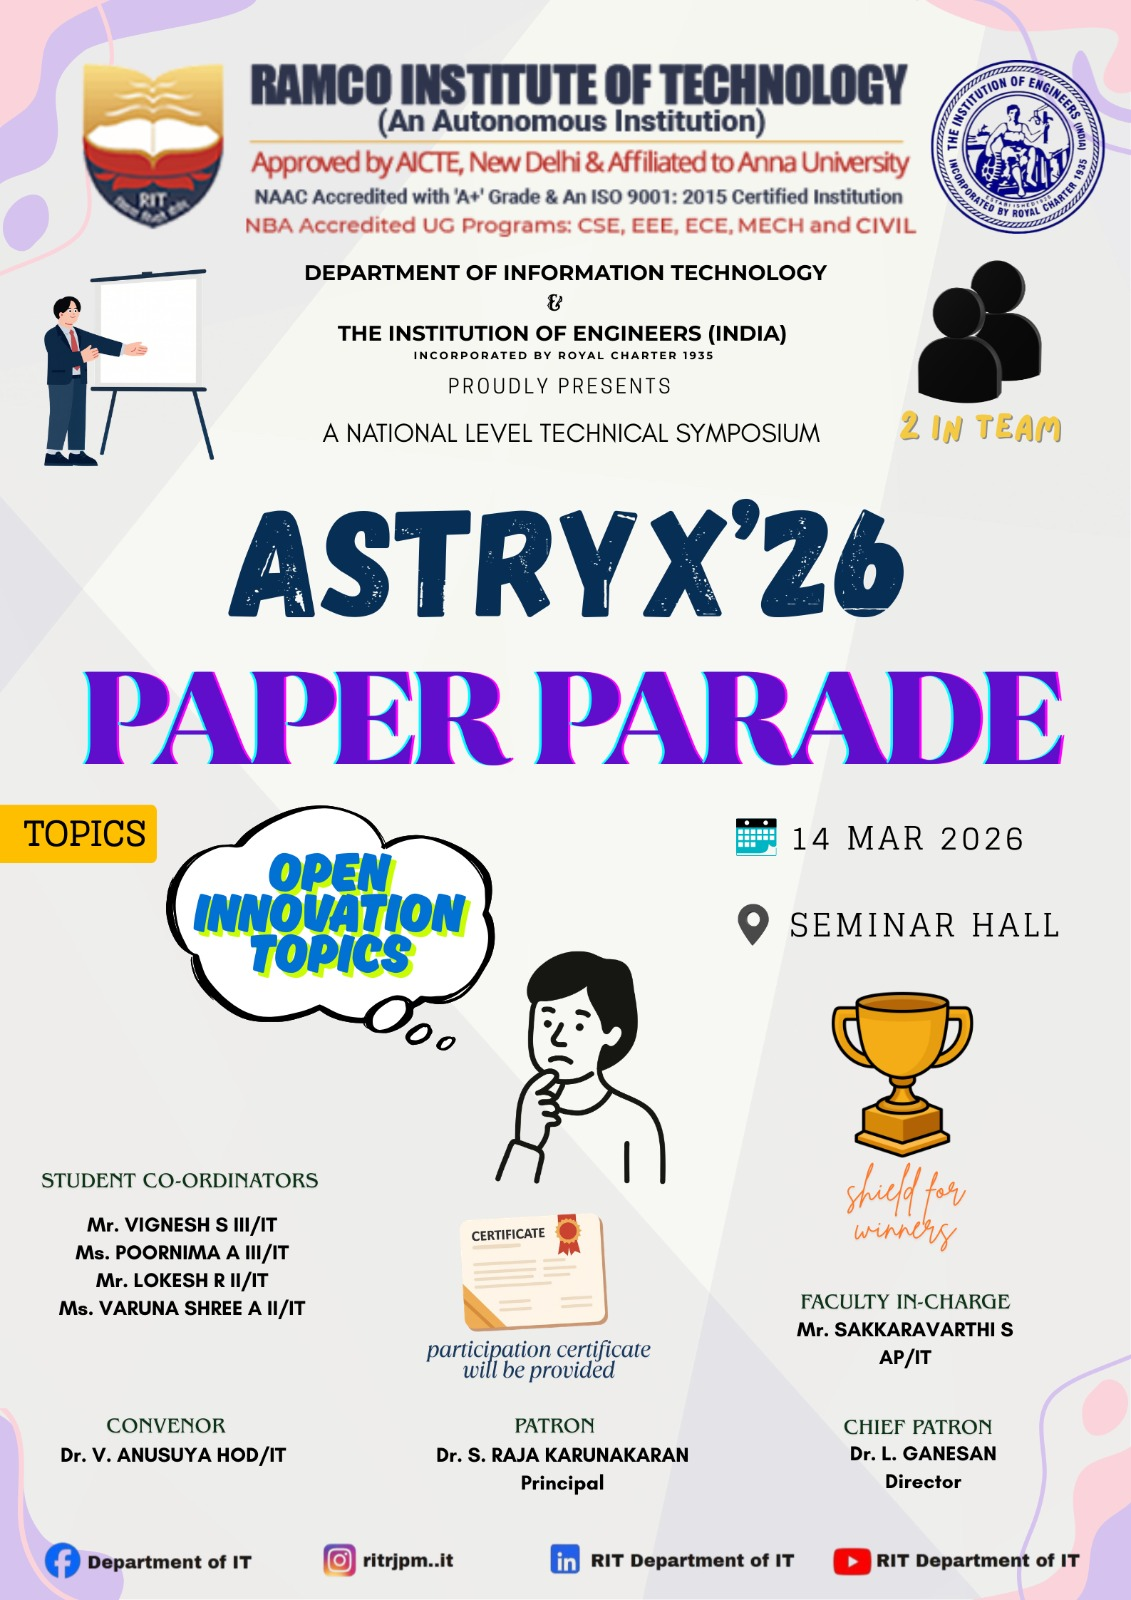
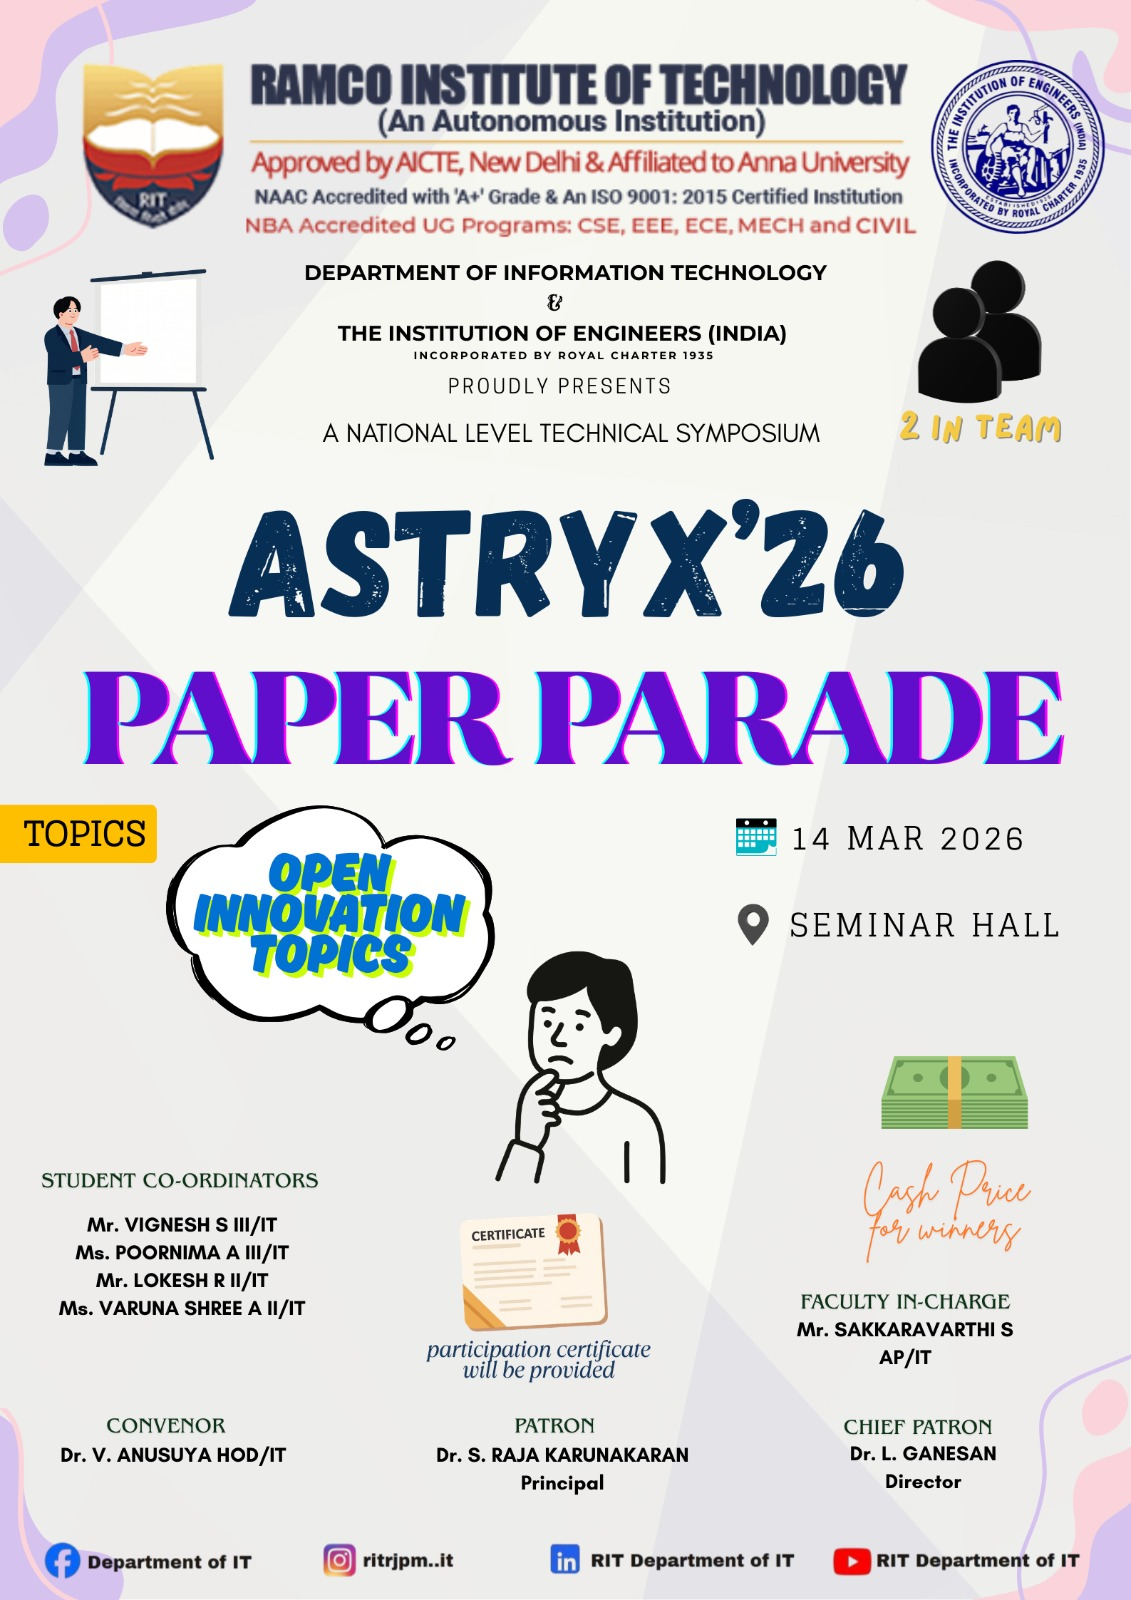
poster

Changed region(s): [[0.7118, 0.5938, 0.9284, 0.7812]]

diff --git a/src/EventDetails.js b/src/EventDetails.js
@@ -20,13 +20,13 @@ export default function EventDetails() {
   time: "Morning Session",
   location: "Seminar Hall",
   image: paperparadeImage,
-  about: "Paper Parade is a technical paper presentation event where participants showcase their ideas, research insights, and innovative solutions on emerging technologies. This event provides a platform for students to analyze real-world problems, explore futuristic concepts, and propose meaningful solutions through structured research and clear presentation. Participants are expected to demonstrate technical knowledge, originality, and effective communication while presenting before a panel of judges.\n\nTopics for Presentation:\n1. Metaverse: A Sustainable Digital Future\n2. The Future of Artificial Intelligence\n3. Quantum Computing: The Future of Processing\n4. IoT for Sustainable Development\n5. Digital Innovation for Sustainable Development\n6. Industry 5.0: Human-Centric Smart Manufacturing\n\n",
+  about: "Paper Parade is a technical paper presentation event where participants showcase their ideas, research insights, and innovative solutions on emerging technologies. This event provides a platform for students to analyze real-world problems, explore futuristic concepts, and propose meaningful solutions through structured research and clear presentation. Participants are expected to demonstrate technical knowledge, originality, and effective communication while presenting before a panel of judges.\n\nTopics for Presentation: Open topics.",
   prize: [
     { place: "1st Place", amount: "₹ 1000 Cash Prize + Certificate" },
     { place: "2nd Place", amount: "₹ 500 Cash Prize + Certificate" }
     
   ],
-  team: { size: "2–3 members" },
+  team: { size: "2 members" },
   coordinator: {
     faculty: "Mr.S.Sakkaravarthi",
     student: "Poornima A, Vignesh S, Varuna Shree A, Lokesh R"
